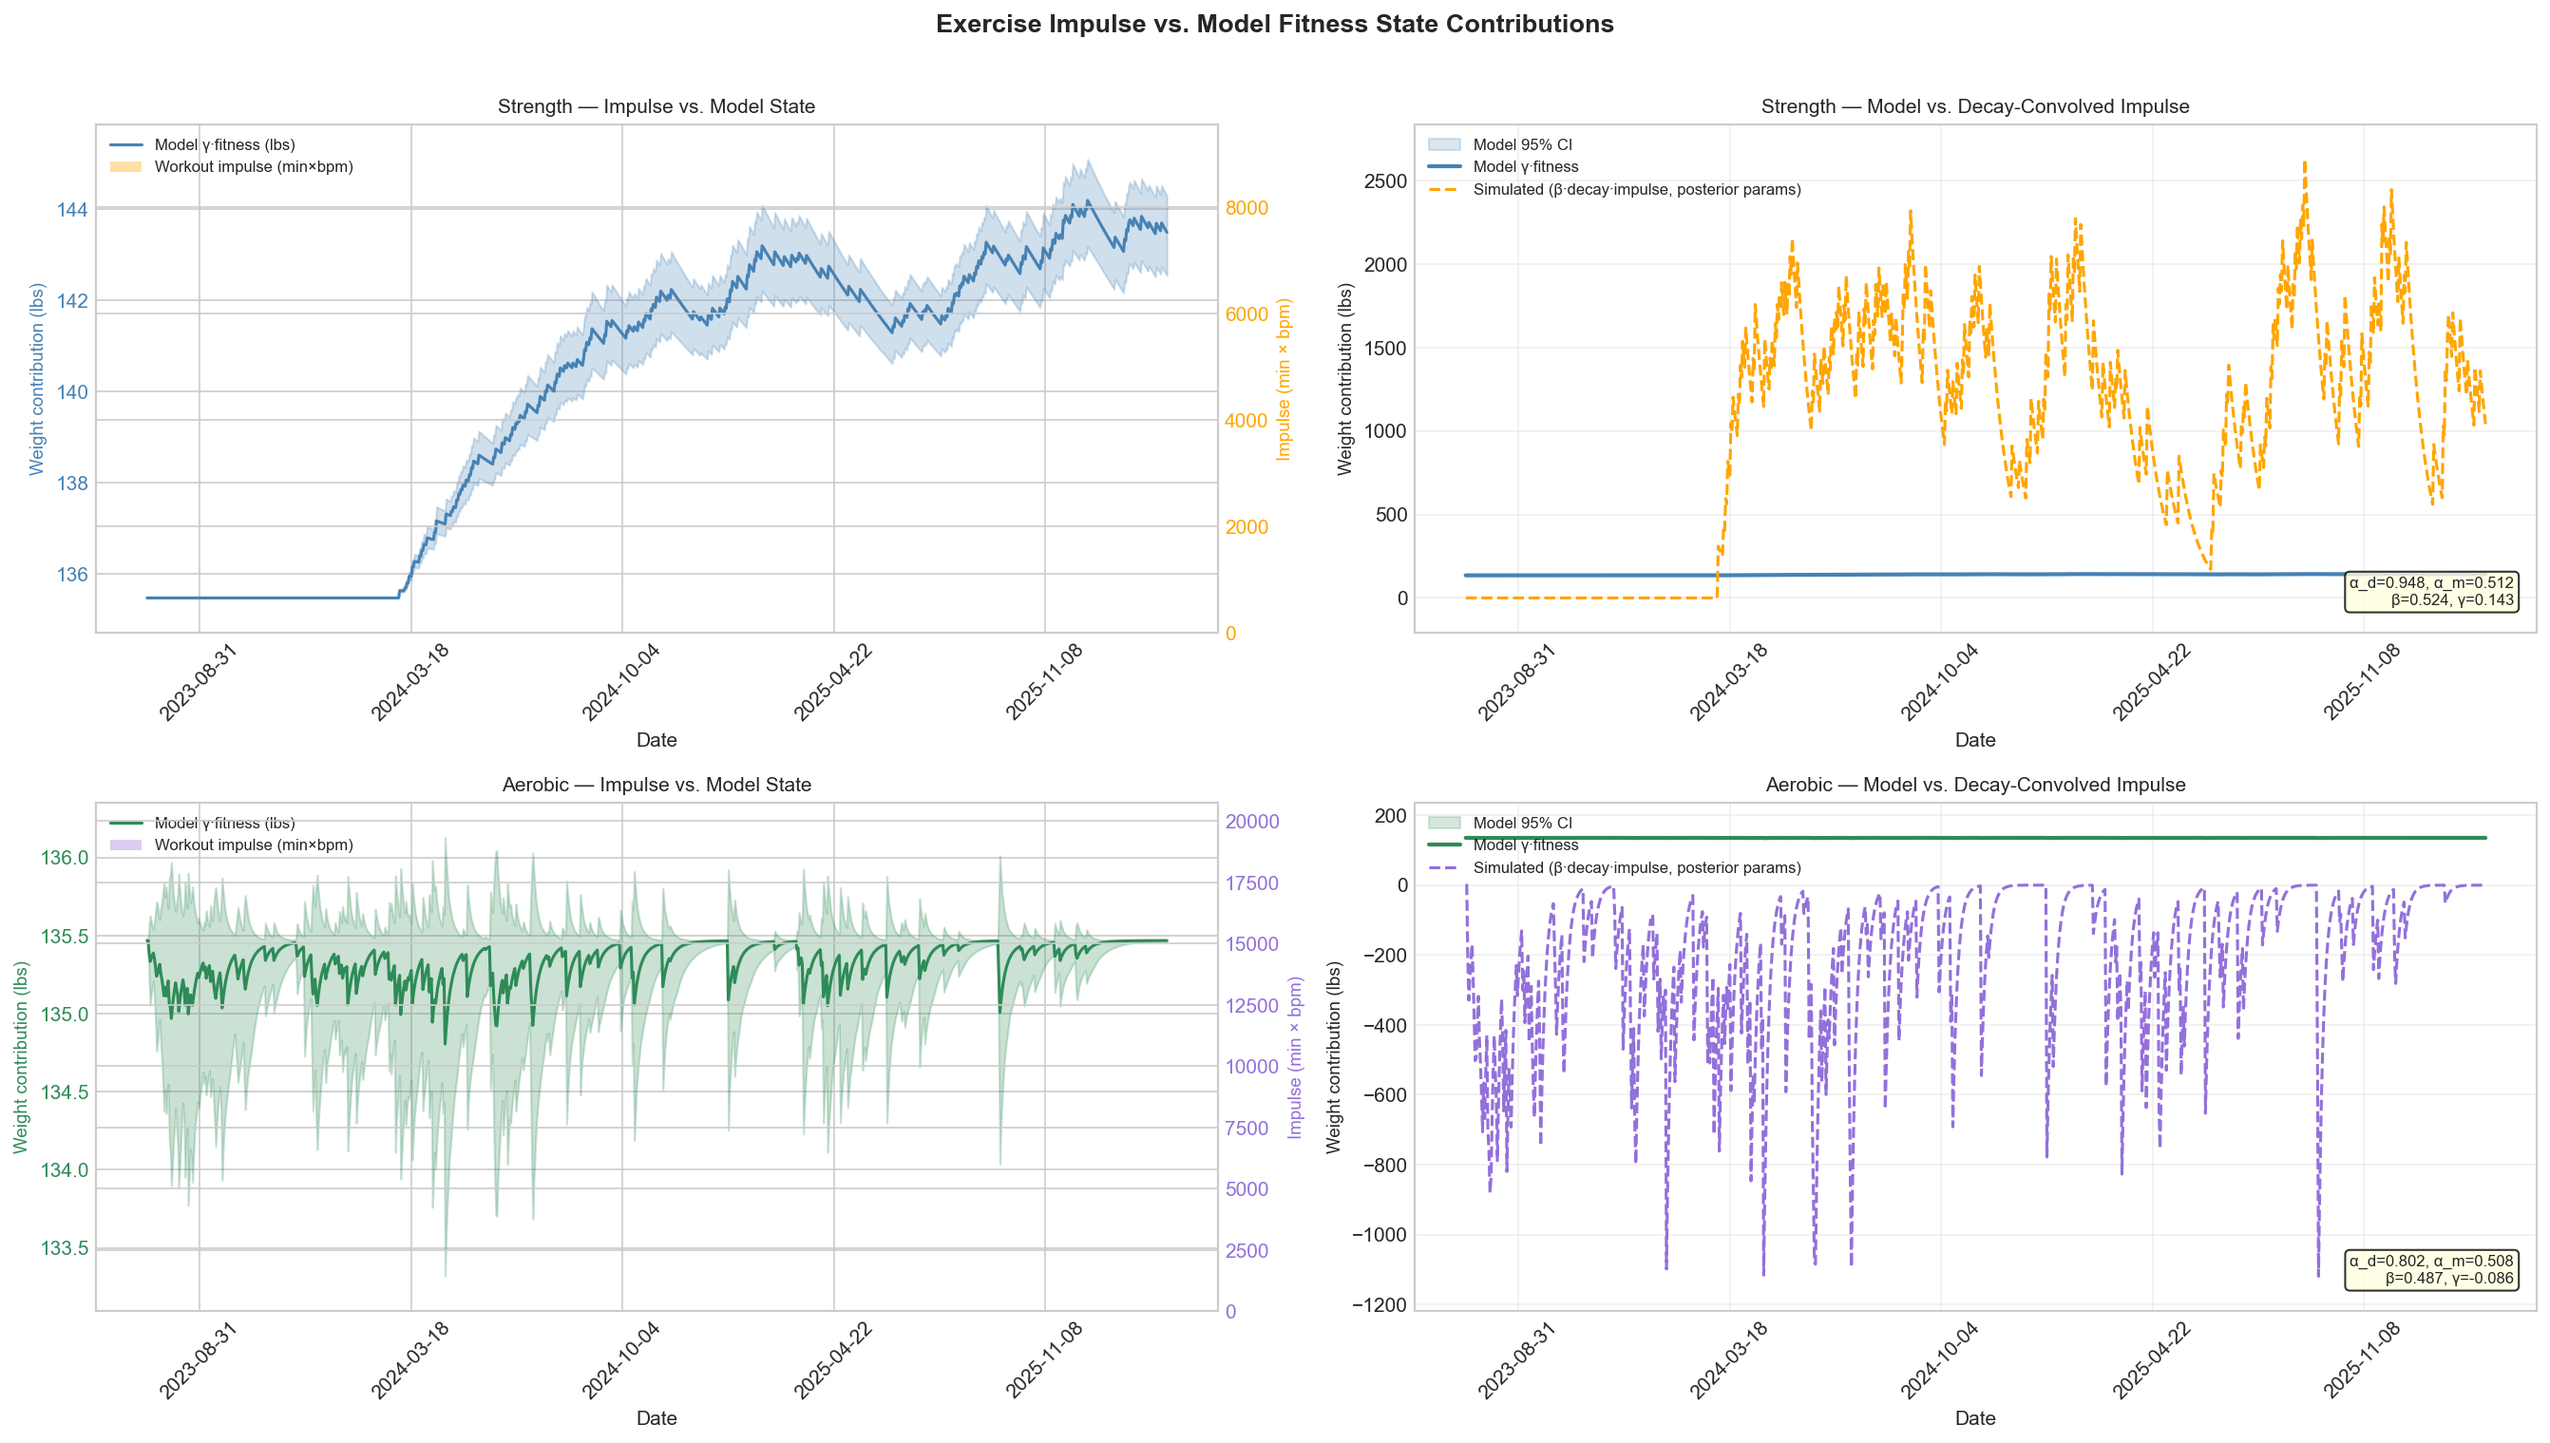
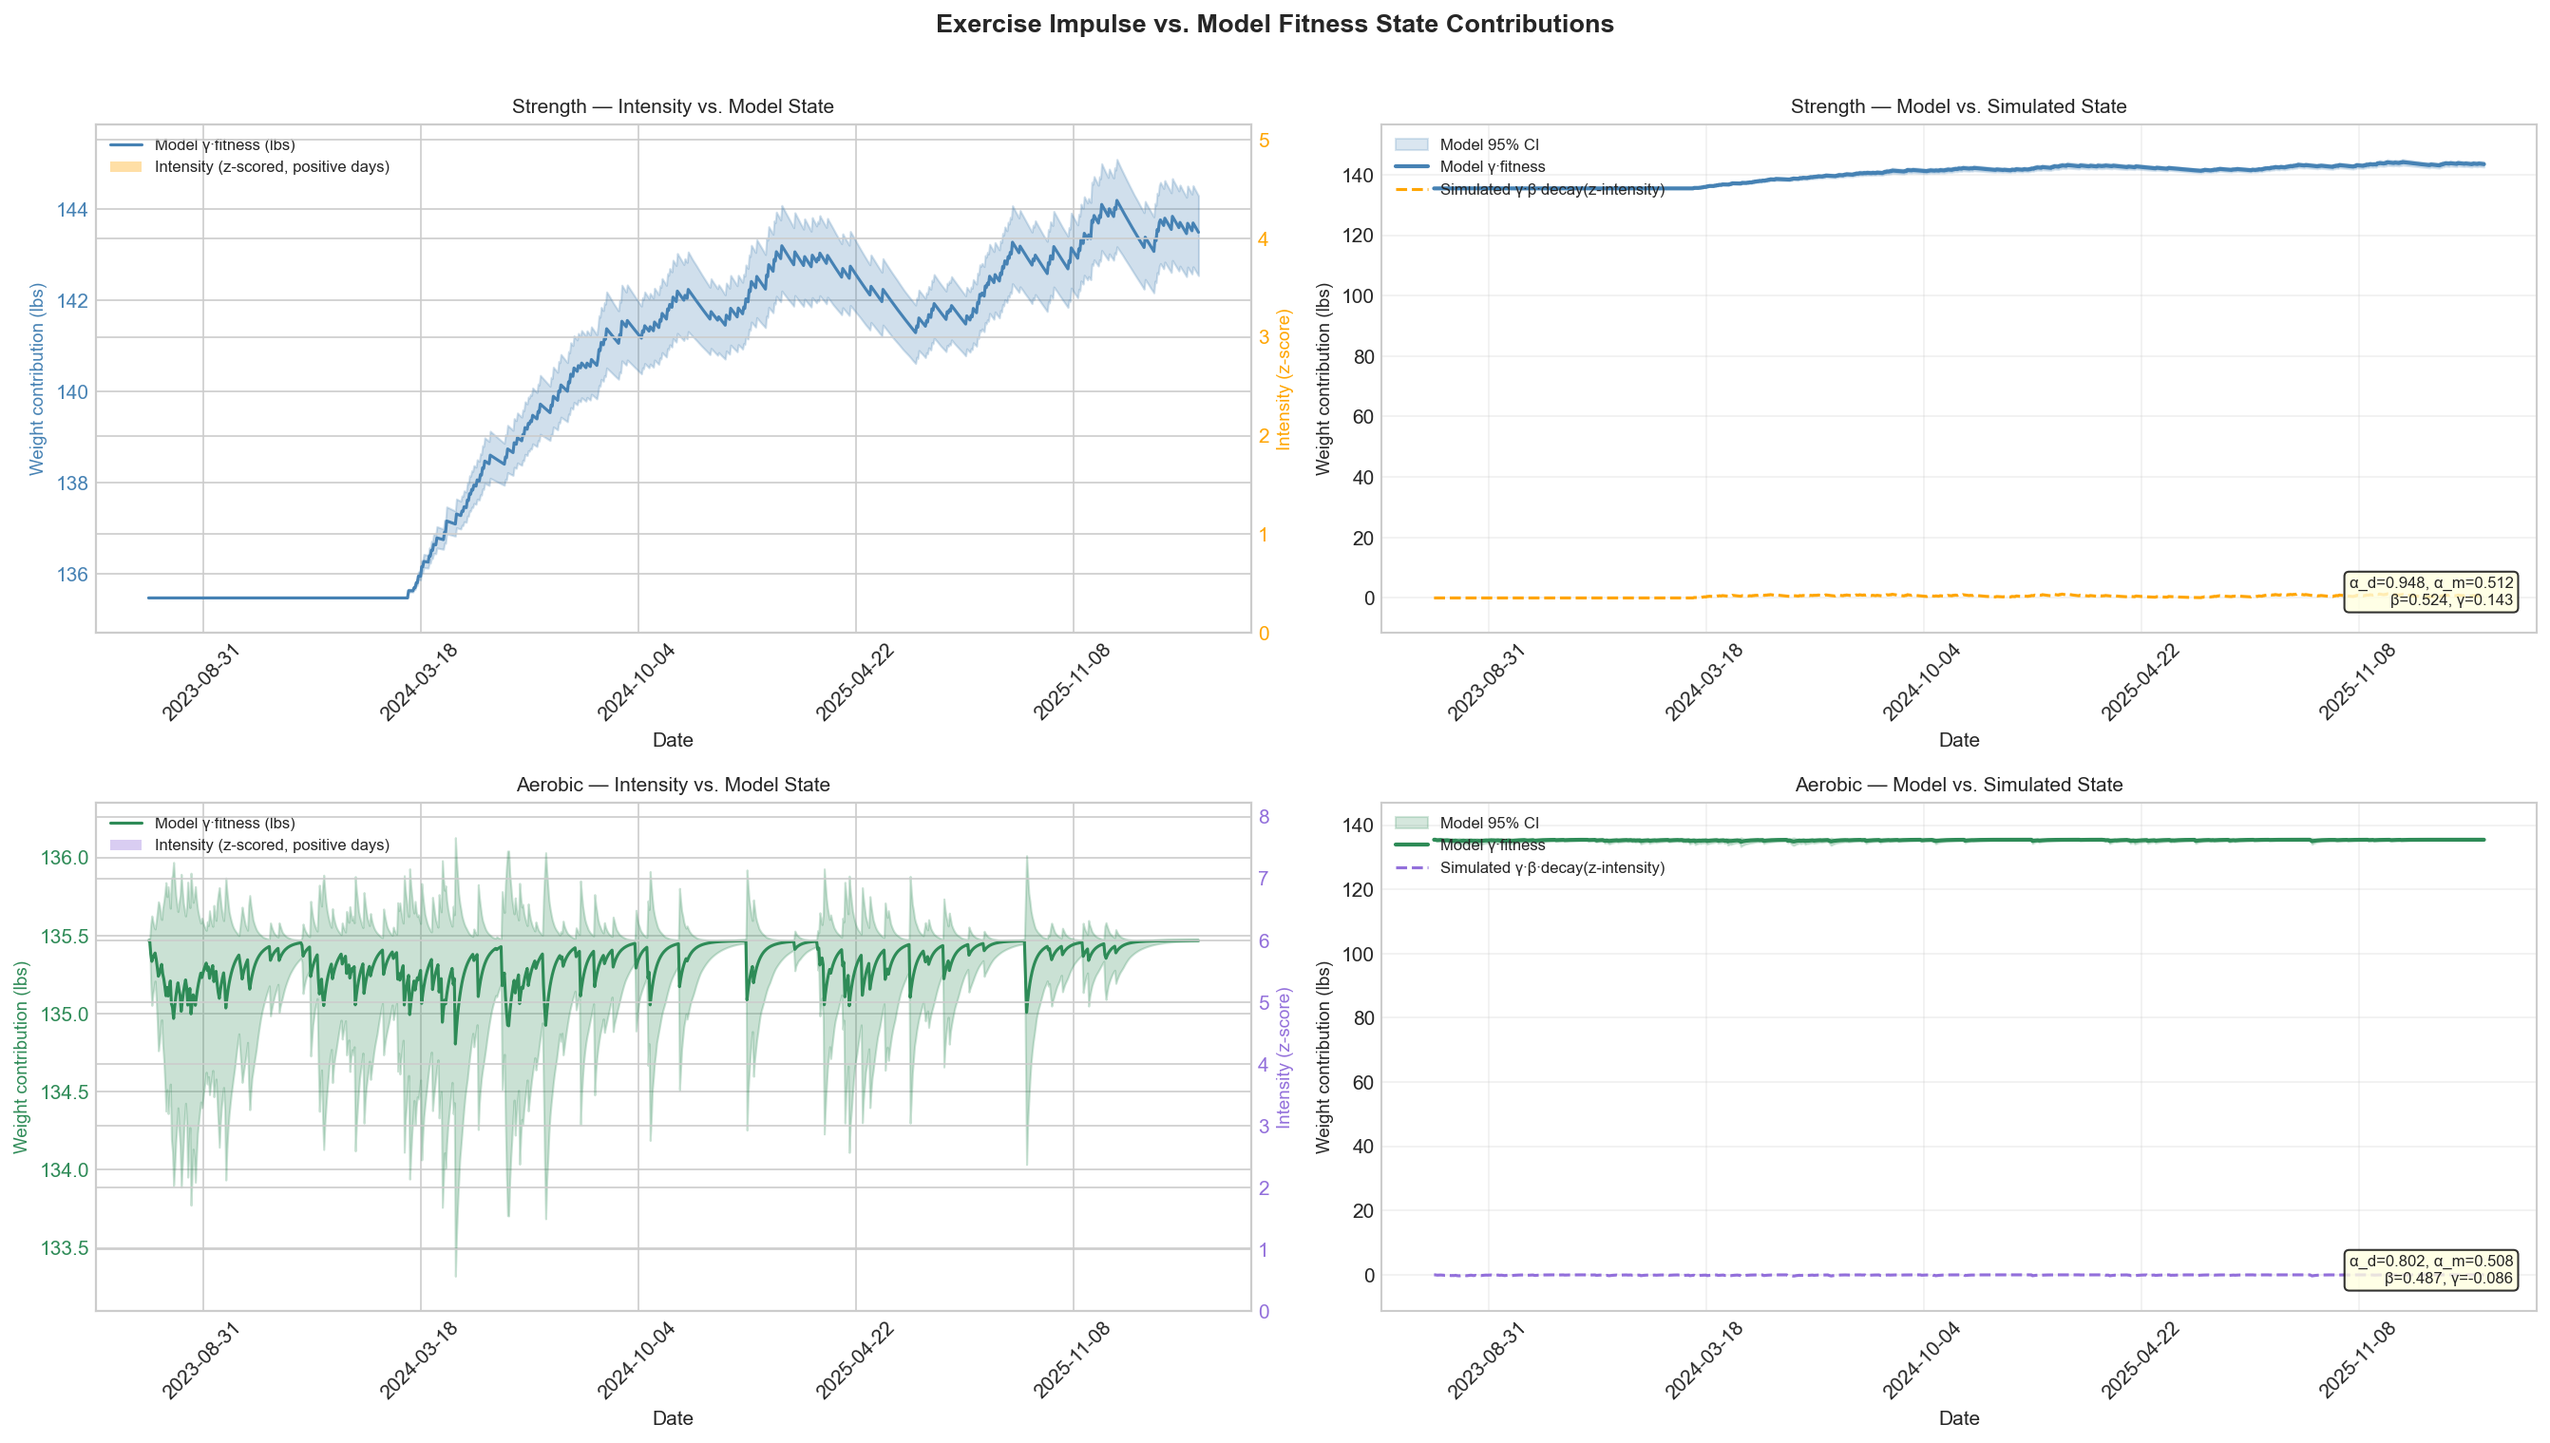
fix: use z-scored intensity for fitness state simulation in impulse viz
- Load intensity via load_intensity_by_activity() and z-score it
  identically to how run_constrained_ar_model.py prepares Stan input
- Simulated fitness state now shares units with model component output,
  so the right-panel comparison is directly interpretable
- Left panels show z-scored intensity bars instead of raw min×bpm
- Update HTML caption to reflect z-scored intensity (not raw impulse)

diff --git a/docs/constrained_ar_model_report/index.html b/docs/constrained_ar_model_report/index.html
@@ -565,7 +565,7 @@
             <h3>Exercise Impulse vs. Fitness State Contributions</h3>
             <div class="visualization">
                 <img src="../component_predictions/fitness_impulse_vs_state_lbs.png" alt="Fitness impulse vs state">
-                <p><em>Four-panel comparison of raw exercise impulse and model-estimated fitness contributions for strength (top) and aerobic (bottom) components. Left panels show cumulative impulse (workout duration × average heart rate, orange bars) alongside the model's estimated weight contribution (blue line with 95% CI). Right panels show the scaled impulse (multiplied by the posterior β gain coefficient) compared to the model fitness state, revealing how the exponential decay kernel smooths and attenuates the instantaneous impulse signal over time. Divergence between the naive cumulative impulse and the decay-convolved state reflects the memory structure learned by the model.</em></p>
+                <p><em>Four-panel comparison of exercise intensity and model-estimated fitness contributions for strength (top) and aerobic (bottom) components. Left panels show daily z-scored intensity (same units fed to the Stan model, orange bars) alongside the model's estimated weight contribution (blue/green line with 95% CI). Right panels compare the model fitness state to a simulated state computed by forward-propagating the z-scored intensity through the posterior-mean decay kernel (γ·β·decay); because both use identical units, divergence between the lines reflects genuine differences between the model posterior and a naively parameterized convolution.</em></p>
             </div>
         </div>
 

diff --git a/src/analysis/regenerate_plots.py b/src/analysis/regenerate_plots.py
@@ -544,16 +544,19 @@ def create_component_visualizations(components, df_weight, dates, hours, output_
         print(f"  Saved: {output_dir}/{output_filename}")
 
 
-def create_fitness_impulse_viz(components, dates, hours, output_dir, activity_impulses=None):
+def create_fitness_impulse_viz(components, dates, hours, output_dir, activity_impulses=None,
+                               data_dir="data"):
     """Four-panel: raw impulse bars vs. model fitness state contribution (strength & aerobic).
 
     Top row = strength, bottom row = aerobic.
-    Left col: raw impulse bars + model fitness contribution (γ * state) over time.
-    Right col: scaled impulse (decay-convolved with posterior parameters) vs. model fitness state.
-    The right panel reveals how the leaky-integrator decay kernel transforms bursty impulse
-    signals into smooth fitness states, and whether the impulse alone predicts the state.
+    Left col: raw intensity bars (z-scored, matching Stan input) + model fitness contribution.
+    Right col: decay-convolved z-scored intensity vs. model fitness state.
+    The right panel reveals how the leaky-integrator decay kernel transforms bursty intensity
+    signals into smooth fitness states. The simulated state uses the same z-scored intensity
+    and posterior-mean parameters as the Stan model, so scales are directly comparable.
     """
     import json
+    from src.data.intensity import load_intensity_by_activity
 
     output_dir = Path(output_dir)
     dates_np = np.array(dates)
@@ -574,34 +577,43 @@ def create_fitness_impulse_viz(components, dates, hours, output_dir, activity_im
             if key in post:
                 params[key] = post[key]['mean']
 
-    # Build a daily impulse array aligned to model dates
-    def build_daily_impulse(impulse_df, date_array):
-        """Return impulse array aligned to date_array (0 on days with no workout)."""
-        imp = np.zeros(len(date_array))
-        if impulse_df is None or impulse_df.empty:
-            return imp
-        dates_pd = pd.to_datetime(date_array)
-        for _, row in impulse_df.iterrows():
-            ev_date = pd.to_datetime(row['date'])
-            diffs = np.abs((dates_pd - ev_date).total_seconds())
-            idx = np.argmin(diffs)
-            imp[idx] += row['impulse']
-        return imp
+    # Load and z-score intensity exactly as the Stan model does
+    # This ensures simulated fitness states are in the same units as model components
+    try:
+        df_intensity = load_intensity_by_activity(
+            data_dir=data_dir,
+            activity_types=['strength_training', 'walking', 'cycling']
+        )
+        # Align to model dates
+        dates_pd = pd.to_datetime(dates_np)
+        df_dates = pd.DataFrame({'date': dates_pd})
+        df_merged = df_dates.merge(df_intensity, on='date', how='left').fillna(0)
 
-    # Reconstruct fitness state via forward simulation with posterior-mean parameters
-    def simulate_fitness_state(impulse_arr, alpha_d, alpha_m, beta, gamma,
-                               trained_days=None):
-        """Simulate γ*fitness[t] using posterior-mean decay parameters.
+        strength_raw = df_merged['strength_training'].values
+        aerobic_raw = (df_merged['walking'] + df_merged['cycling']).values
 
-        trained_days: boolean array, True on days where impulse > 0.
-        """
-        n = len(impulse_arr)
-        if trained_days is None:
-            trained_days = impulse_arr > 0
+        # Z-score using whole-series mean/std (matching run_constrained_ar_model.py)
+        s_mean, s_std = strength_raw.mean(), strength_raw.std()
+        a_mean, a_std = aerobic_raw.mean(), aerobic_raw.std()
+        strength_z = (strength_raw - s_mean) / s_std if s_std > 0 else strength_raw
+        aerobic_z  = (aerobic_raw - a_mean) / a_std  if a_std > 0 else aerobic_raw
+
+        intensity_arrays = {'strength': strength_z, 'aerobic': aerobic_z}
+        print("  ✓ Loaded z-scored intensity for fitness simulation")
+    except Exception as e:
+        print(f"  ⚠ Could not load intensity data ({e}); falling back to raw impulse")
+        intensity_arrays = {}
+
+    # Reconstruct fitness state via forward simulation with posterior-mean parameters.
+    # Input intensity_arr should be z-scored (same units as Stan model input).
+    # Output is γ * fitness in the same units as comp_noon (lbs weight contribution).
+    def simulate_fitness_state(intensity_arr, alpha_d, alpha_m, beta, gamma):
+        trained = intensity_arr > 0
+        n = len(intensity_arr)
         state = np.zeros(n)
         for t in range(1, n):
-            alpha_eff = alpha_d + (1 - alpha_d) * alpha_m * float(trained_days[t - 1])
-            state[t] = alpha_eff * state[t - 1] + beta * impulse_arr[t - 1] * float(trained_days[t - 1])
+            alpha_eff = alpha_d + (1 - alpha_d) * alpha_m * float(trained[t - 1])
+            state[t] = alpha_eff * state[t - 1] + beta * intensity_arr[t - 1] * float(trained[t - 1])
         return gamma * state
 
     fig, axes = plt.subplots(2, 2, figsize=(18, 10))
@@ -620,35 +632,34 @@ def create_fitness_impulse_viz(components, dates, hours, output_dir, activity_im
         lower_noon = lower_comp[:, noon_idx]
         upper_noon = upper_comp[:, noon_idx]
 
-        # Daily impulse array
-        imp_df = activity_impulses.get(label) if activity_impulses else None
-        imp_arr = build_daily_impulse(imp_df, dates_np)
-        trained = imp_arr > 0
+        # Z-scored intensity (same units as Stan model input)
+        intensity_z = intensity_arrays.get(label, np.zeros(len(dates_np)))
 
         # Posterior-mean simulated fitness contribution
         alpha_d = params.get(ad_k, 0.9)
         alpha_m = params.get(am_k, 0.5)
         beta    = params.get(b_k, 0.5)
         gamma   = params.get(g_k, 0.1)
-        simulated = simulate_fitness_state(imp_arr, alpha_d, alpha_m, beta, gamma, trained)
+        simulated = simulate_fitness_state(intensity_z, alpha_d, alpha_m, beta, gamma)
 
-        # ------ LEFT: impulse bars + model fitness contribution ------
+        # ------ LEFT: z-scored intensity bars + model fitness contribution ------
         ax = axes[row_i, 0]
         ax2 = ax.twinx()
 
-        # Impulse bars on secondary axis
-        ax2.bar(dates_np, imp_arr, width=1, alpha=0.35, color=imp_color,
-                label='Workout impulse (min×bpm)')
-        ax2.set_ylabel('Impulse (min × bpm)', color=imp_color, fontsize=9)
+        # Positive intensity bars on secondary axis (clip negatives from z-scoring)
+        intensity_pos = np.clip(intensity_z, 0, None)
+        ax2.bar(dates_np, intensity_pos, width=1, alpha=0.35, color=imp_color,
+                label='Intensity (z-scored, positive days)')
+        ax2.set_ylabel('Intensity (z-score)', color=imp_color, fontsize=9)
         ax2.tick_params(axis='y', labelcolor=imp_color)
 
         # Model fitness state on primary axis
         ax.fill_between(dates_np, lower_noon, upper_noon, alpha=0.25, color=state_color)
         ax.plot(dates_np, comp_noon, color=state_color, linewidth=1.5,
-                label=f'Model γ·fitness (lbs)')
+                label='Model γ·fitness (lbs)')
         ax.set_ylabel('Weight contribution (lbs)', color=state_color, fontsize=9)
         ax.tick_params(axis='y', labelcolor=state_color)
-        ax.set_title(f'{label.capitalize()} — Impulse vs. Model State', fontsize=10)
+        ax.set_title(f'{label.capitalize()} — Intensity vs. Model State', fontsize=10)
         ax.set_xlabel('Date')
         ax.xaxis.set_major_locator(plt.MaxNLocator(6))
         plt.setp(ax.xaxis.get_majorticklabels(), rotation=45)
@@ -662,10 +673,10 @@ def create_fitness_impulse_viz(components, dates, hours, output_dir, activity_im
         ax.fill_between(dates_np, lower_noon, upper_noon, alpha=0.2, color=state_color,
                         label='Model 95% CI')
         ax.plot(dates_np, comp_noon, color=state_color, linewidth=2,
-                label=f'Model γ·fitness')
+                label='Model γ·fitness')
         ax.plot(dates_np, simulated, color=imp_color, linewidth=1.5, linestyle='--',
-                label=f'Simulated (β·decay·impulse, posterior params)')
-        ax.set_title(f'{label.capitalize()} — Model vs. Decay-Convolved Impulse', fontsize=10)
+                label='Simulated γ·β·decay(z-intensity)')
+        ax.set_title(f'{label.capitalize()} — Model vs. Simulated State', fontsize=10)
         ax.set_ylabel('Weight contribution (lbs)', fontsize=9)
         ax.set_xlabel('Date')
         ax.xaxis.set_major_locator(plt.MaxNLocator(6))
@@ -679,7 +690,7 @@ def create_fitness_impulse_viz(components, dates, hours, output_dir, activity_im
                 ha='right', va='bottom',
                 bbox=dict(boxstyle='round', facecolor='lightyellow', alpha=0.8))
 
-        # Set shared y limits for left panel too
+        # Y limits: right panel spans both model and simulated; left panel spans model only
         all_y = np.concatenate([comp_noon, lower_noon, upper_noon, simulated])
         y_pad = (all_y.max() - all_y.min()) * 0.08
         axes[row_i, 1].set_ylim(all_y.min() - y_pad, all_y.max() + y_pad)
@@ -750,7 +761,7 @@ def main():
 
     # Create fitness impulse vs. state visualization
     create_fitness_impulse_viz(components, dates, hours, output_dir,
-                               activity_impulses=activity_impulses)
+                               activity_impulses=activity_impulses, data_dir=data_dir)
 
     print("\n" + "="*60)
     print("Plot Regeneration Complete")
